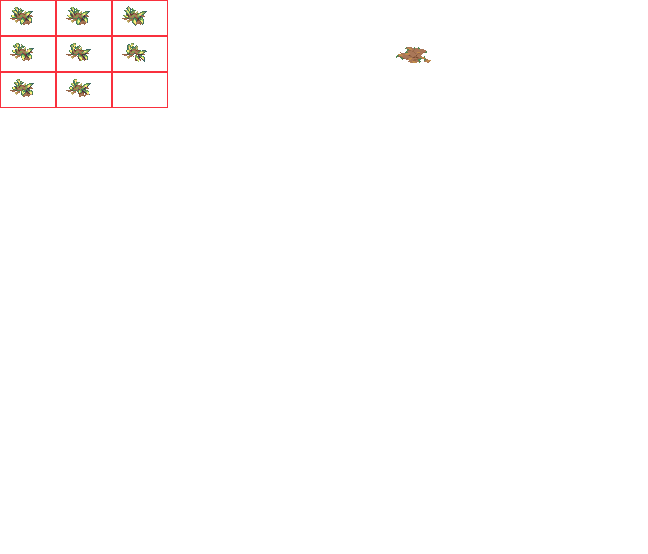
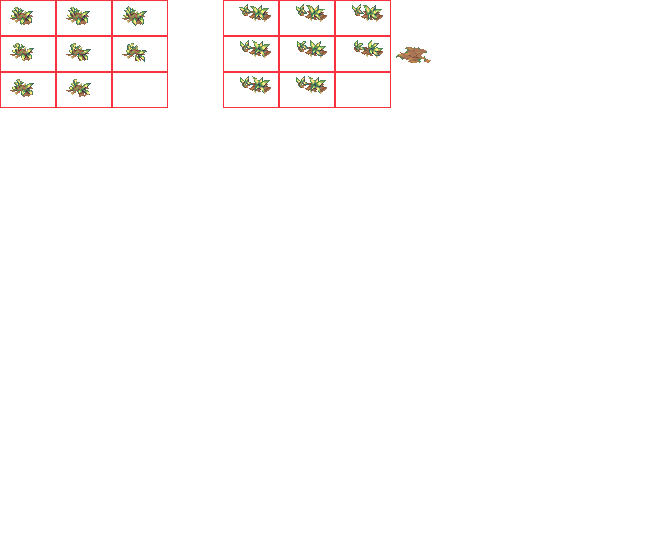
Wired in a second piece of wobbling grass.

Changed region(s): [[0.3395, 0.0, 0.6173, 0.1841]]

diff --git a/src/game/levels/default_level.ts b/src/game/levels/default_level.ts
@@ -1,1 +1,1 @@
-export const default_level = {"metadata":{"origin":{"x":0,"y":0}},"tile_maps":{"terrain":[["wideleaf_scrub","grass-and-scree","scrub-dirt","menhir-big","menhir-big","menhir-big","menhir-big","grass","grass","menhir-big","menhir-big","menhir-big","menhir-big","dirt"],["grass","scrub-dirt","scrub-dirt","menhir-big","menhir-big","menhir-big","grass","grass","dirt","menhir-big","menhir-big","menhir-big","grass-and-scree","wideleaf_scrub"],["grass-and-scree","grass","sandy-dirt","grass","menhir-big","menhir-big","dirt","grass","grass","menhir-big","menhir-big","dirt","sand","wideleaf_scrub"],["menhir-big","menhir-big","scrub-dirt","grass","menhir-big","dirt","grass-and-scree","wideleaf_scrub","grass","sand","bush","dirt","sand","sandy-dirt"],["menhir-big","menhir-big","menhir-big","menhir-big","grass","grass","dirt","sandy-dirt","grass-and-scree","grass-and-scree","sand","bush","scrub-dirt","grass-and-scree"],["menhir-big","menhir-big","menhir-big","grass","grass","dirt","sandy-dirt","bush","dirt","dirt","grass-and-scree","grass-and-scree","dirt","dirt"],["menhir-big","grass","dirt","scrub-dirt","water","scrub-dirt","grass","sandy-dirt","wideleaf_scrub","scrub-dirt","menhir-big","menhir-big","menhir-big","menhir-big"],["grass-and-scree","wideleaf_scrub","dirt","water","water-placid","water-placid","scrub-dirt","dirt","dirt","menhir-big","menhir-big","menhir-big","menhir-big","menhir-big"],["scrub-dirt","scrub-dirt","sandy-dirt","water","water","water-placid","water","grass","scrub-dirt","dirt","scrub-dirt","menhir-big","menhir-big","menhir-big"],["scrub-dirt","grass-and-scree","wideleaf_scrub","sand","grass-and-scree","water","dirt","menhir-big","scrub-dirt","grass-and-scree","grass-and-scree","menhir-big","menhir-big","grass-and-scree"],["wideleaf_scrub","wideleaf_scrub","sandy-dirt","dirt","sand","dirt","menhir-big","menhir-big","wideleaf_scrub","scrub-dirt","grass-and-scree","menhir-big","scrub-dirt","wideleaf_scrub"],["scrub-dirt","dirt","dirt","scrub-dirt","grass-and-scree","sandy-dirt","wideleaf_scrub","menhir-big","scrub-dirt","scrub-dirt","grass-and-scree","dirt","wideleaf_scrub","wideleaf_scrub"],["scrub-dirt","wideleaf_scrub","scrub-dirt","sandy-dirt","menhir-big","menhir-big","menhir-big","water-placid","water","menhir-big","dirt","grass-and-scree","scrub-dirt","wideleaf_scrub"],["grass-and-scree","dirt","dirt","grass-and-scree","menhir-big","menhir-big","water","water","water","menhir-big","menhir-big","grass-and-scree","wideleaf_scrub","menhir-big"],["bush","wideleaf_scrub","grass-and-scree","menhir-big","menhir-big","menhir-big","menhir-big","water","water-placid","water","menhir-big","menhir-big","menhir-big","menhir-big"],["menhir-big","menhir-big","menhir-big","wideleaf_scrub","scrub-dirt","bush","menhir-big","water","menhir-big","menhir-big","wideleaf_scrub","scrub-dirt","menhir-big","scrub-dirt"],["menhir-big","menhir-big","menhir-big","menhir-big","scrub-dirt","dirt","grass-and-scree","menhir-big","menhir-big","menhir-big","menhir-big","grass-and-scree","menhir-big","menhir-big"],["menhir-big","menhir-big","menhir-big","sandy-dirt","dirt","bush","menhir-big","menhir-big","menhir-big","menhir-big","menhir-big","scrub-dirt","wideleaf_scrub","grass-and-scree"],["menhir-big","menhir-big","menhir-big","menhir-big","wideleaf_scrub","scrub-dirt-tall","menhir-small","menhir-big","menhir-big","menhir-big","menhir-big","menhir-big","wideleaf_scrub","grass-and-scree"],["menhir-big","menhir-big","grass-and-scree","menhir-small","grass-and-scree","menhir-small","wideleaf_scrub","menhir-big","menhir-big","menhir-big","menhir-big","grass-and-scree","grass-and-scree","dirt"]],"ui":[["","","","","","","","","","","","","",""],["","","","","","","","","","","","","",""],["","","","","","","","","","","","","",""],["","","","","","","","","","","","","",""],["","","","","","","","","","","","","",""],["","","","","","","","","","","","","",""],["","","","","","","","","","","","","",""],["","","","","","","","","","","","","",""],["","","","","","","","","","","","","",""],["","","","","","","","","","","","","",""],["","","","","","","","","","","","","",""],["","","","","","","","","","","","","",""],["","","","","","","","","","","","","",""],["","","","","","","","","","","","","",""],["","","","","","","","","","","","","",""],["","","","","","","","","","","","","",""],["","","","","","","","","","","","","",""],["","","","","","","","","","","","","",""],["","","","","","","","","","","","","",""],["","","","","","","","","","","","","",""]]},"creature_list":[{"type_name":"human_footman","pos":{"x":2,"y":8},"team":1},{"type_name":"skeleton","pos":{"x":5,"y":5},"team":2},{"type_name":"undead_javelineer","pos":{"x":8,"y":5},"team":1},{"type_name":"skeleton","pos":{"x":4,"y":10},"team":1}]}
+export const default_level = {"metadata":{"origin":{"x":0,"y":0}},"tile_maps":{"terrain":[["water","water-placid","water-placid","water","menhir-big","menhir-big","water","water-placid","water-placid","water-placid","menhir-big","menhir-big","grass","grass"],["water-placid","water-placid","water","menhir-big","menhir-big","menhir-big","water-placid","water","water-placid","menhir-big","menhir-big","menhir-big","grass","grass"],["water","water","water-placid","water-placid","menhir-big","menhir-big","menhir-big","menhir-big","water-placid","water","menhir-big","menhir-big","menhir-big","grass"],["water-placid","water-placid","water-placid","wideleaf_scrub","scrub-dirt","menhir-big","menhir-big","menhir-big","dirt","dirt","grass","water-placid","water","water-placid"],["water-placid","water","water","scrub-dirt","wideleaf_scrub","grass","scrub-dirt-tall","menhir-big","menhir-big","menhir-big","grass","grass","grass","water"],["water-placid","water","menhir-big","scrub-dirt-tall","scrub-dirt","grass-and-scree","menhir-big","menhir-big","menhir-big","scrub-dirt","grass","menhir-big","menhir-big","water"],["menhir-big","menhir-big","menhir-big","bush","dirt","grass-and-scree","menhir-big","grass-and-scree","scrub-dirt-tall","scrub-dirt","water","water","menhir-big","menhir-big"],["menhir-big","menhir-big","menhir-big","menhir-big","menhir-big","grass-and-scree","grass-and-scree","grass","menhir-small","water","water-placid","water","menhir-big","menhir-big"],["menhir-big","dirt","menhir-big","grass-and-scree","menhir-big","menhir-big","grass-and-scree","dirt","menhir-small","water","water-placid","water","menhir-big","menhir-big"],["dirt","grass-and-scree","menhir-big","menhir-big","scrub-dirt-tall","scrub-dirt","menhir-big","menhir-big","sand","sandy-dirt","wideleaf_scrub","menhir-big","menhir-big","menhir-big"],["wideleaf_scrub","grass-and-scree","sand","scrub-dirt-tall","wideleaf_scrub","scrub-dirt","menhir-big","menhir-big","scrub-dirt","dirt","sandy-dirt","scrub-dirt","menhir-big","menhir-big"],["sandy-dirt","dirt","sand","grass-and-scree","menhir-small","scrub-dirt","grass-and-scree","grass-and-scree","menhir-big","sand","grass-and-scree","grass-and-scree","menhir-big","menhir-big"],["grass","scrub-dirt","grass-and-scree","grass-and-scree","scrub-dirt","wideleaf_scrub","menhir-big","grass-and-scree","grass-and-scree","wideleaf_scrub","grass","sandy-dirt","wideleaf_scrub","wideleaf_scrub"],["grass","scrub-dirt","dirt","wideleaf_scrub","sand","grass-and-scree","menhir-big","grass-and-scree","wideleaf_scrub","scrub-dirt","wideleaf_scrub","wideleaf_scrub","sandy-dirt","dirt"],["dirt","wideleaf_scrub","dirt","grass-and-scree","grass-and-scree","dirt","bush","grass-and-scree","menhir-big","menhir-big","grass-and-scree","grass","scrub-dirt","grass-and-scree"],["wideleaf_scrub","grass-and-scree","wideleaf_scrub","grass-and-scree","sandy-dirt","sand","grass","wideleaf_scrub","grass","menhir-big","grass","grass-and-scree","wideleaf_scrub","scrub-dirt"],["grass","grass-and-scree","menhir-big","bush","sand","sand","wideleaf_scrub","grass","grass","scrub-dirt","menhir-small","sandy-dirt","bush","dirt"],["dirt","menhir-big","grass-and-scree","bush","scrub-dirt","sandy-dirt","grass","grass","grass","menhir-big","grass-and-scree","grass-and-scree","sand","dirt"],["menhir-big","menhir-big","menhir-big","menhir-big","scrub-dirt","dirt","wideleaf_scrub","grass","grass","grass","menhir-big","dirt","wideleaf_scrub","grass-and-scree"],["menhir-big","menhir-big","grass-and-scree","menhir-big","menhir-big","scrub-dirt","dirt","grass","scrub-dirt","grass","menhir-big","dirt","dirt","scrub-dirt"]],"ui":[["","","","","","","","","","","","","",""],["","","","","","","","","","","","","",""],["","","","","","","","","","","","","",""],["","","","","","","","","","","","","",""],["","","","","","","","","","","","","",""],["","","","","","","","","","","","","",""],["","","","","","","","","","","","","",""],["","","","","","","","","","","","","",""],["","","","","","","","","","","","","",""],["","","","","","","","","","","","","",""],["","","","","","","","","","","","","",""],["","","","","","","","","","","","","",""],["","","","","","","","","","","","","",""],["","","","","","","","","","","","","",""],["","","","","","","","","","","","","",""],["","","","","","","","","","","","","",""],["","","","","","","","","","","","","",""],["","","","","","","","","","","","","",""],["","","","","","","","","","","","","",""],["","","","","","","","","","","","","",""]]},"creature_list":[{"type_name":"human_footman","pos":{"x":2,"y":8},"team":1},{"type_name":"skeleton","pos":{"x":5,"y":5},"team":2},{"type_name":"undead_javelineer","pos":{"x":8,"y":5},"team":1},{"type_name":"skeleton","pos":{"x":4,"y":10},"team":1}]}

diff --git a/src/game/core/data/Image_Data/Tile_Image_Data.ts b/src/game/core/data/Image_Data/Tile_Image_Data.ts
@@ -581,5 +581,70 @@ export const Tile_Image_Data: Array<Image_Data> = [{
 	frame_duration: 510,
 	pad: 2,
 	ping_pong: true
+},{
+	url: "terrain-tiles2.png",
+	name: "wideleaf_scrub2__anim1",
+	bounds: {
+		x: 224,
+		y: 1,
+		w: 54,
+		h: 34,
+	},
+	frames: 3,
+	frame_duration: 210,
+	pad: 2,
+	ping_pong: true
+},{
+	url: "terrain-tiles2.png",
+	name: "wideleaf_scrub2__anim2",
+	bounds: {
+		x: 224,
+		y: 37,
+		w: 54,
+		h: 34,
+	},
+	frames: 3,
+	frame_duration: 210,
+	pad: 2,
+	ping_pong: true
+},{
+	url: "terrain-tiles2.png",
+	name: "wideleaf_scrub2__anim3",
+	bounds: {
+		x: 224,
+		y: 73,
+		w: 54,
+		h: 34,
+	},
+	frames: 2,
+	frame_duration: 410,
+	pad: 2,
+	ping_pong: true
+},{
+	url: "terrain-tiles2.png",
+	name: "wideleaf_scrub2__anim2b",
+	bounds: {
+		x: 224,
+		y: 1,
+		w: 54,
+		h: 34,
+	},
+	frames: 3,
+	frame_duration: 450,
+	pad: 2,
+	ping_pong: true
+},{
+	url: "terrain-tiles2.png",
+	name: "wideleaf_scrub2__anim3b",
+	bounds: {
+		x: 224,
+		y: 37,
+		w: 54,
+		h: 34,
+	},
+	frames: 3,
+	frame_duration: 510,
+	pad: 2,
+	ping_pong: true
 }];
 	

diff --git a/src/game/core/data/Image_Data.ts b/src/game/core/data/Image_Data.ts
@@ -16,4 +16,5 @@ export const image_data_list: Array<Image_Data> = flatten([
 export const image_sequence_data_list: Image_Sequence_Dictionary = {
 	test_repeating_anim: ['animation_test', 'animation_test2', 'water-underlay'],
 	wideleaf_scrub1: ['wideleaf_scrub1__anim1', 'wideleaf_scrub1__anim2', 'wideleaf_scrub1__anim3','wideleaf_scrub1__anim2b', 'wideleaf_scrub1__anim3b'],
+	wideleaf_scrub2: ['wideleaf_scrub2__anim1', 'wideleaf_scrub2__anim2', 'wideleaf_scrub2__anim3','wideleaf_scrub2__anim2b', 'wideleaf_scrub2__anim3b'],
 }

diff --git a/src/game/core/data/Tile_Types.ts b/src/game/core/data/Tile_Types.ts
@@ -192,13 +192,21 @@ export const tile_types: Array<Tile_Item> = [
 		name: "wideleaf_scrub",
 		variants: [{
 			graphics: [{
-				id: 'dirt1',
+				id: 'grass3',
 				zorder: zorder.grass,
 			},{
 				id: 'wideleaf_scrub1',
 				zorder: zorder.rocks,
 			}],
-		},],
+		},{
+			graphics: [{
+				id: 'grass5',
+				zorder: zorder.grass,
+			},{
+				id: 'wideleaf_scrub2',
+				zorder: zorder.rocks,
+			}],
+		}],
 	},{
 		name: "sand",
 		variants: [{
